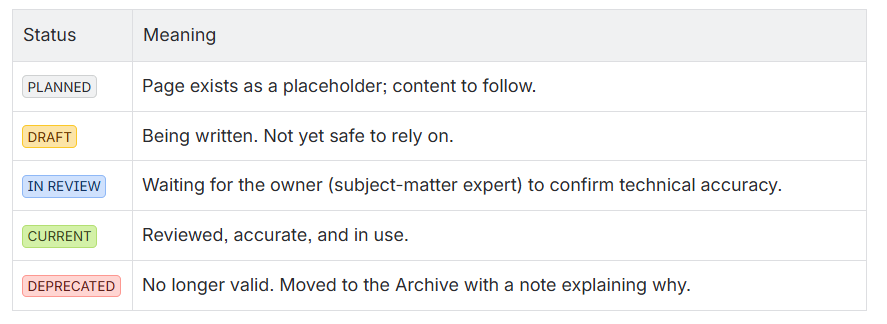
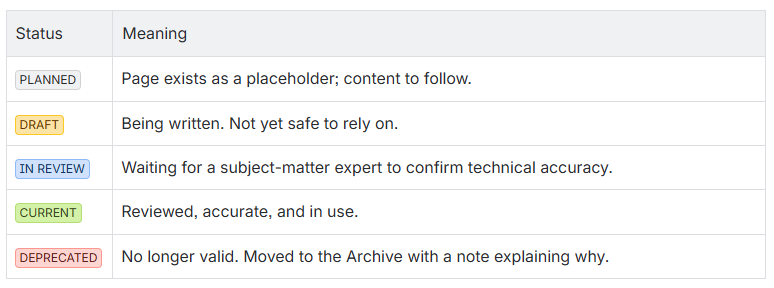
Fix the In review status wording in the status key and its screenshot

diff --git a/docs/process-governance/confluence-build.md b/docs/process-governance/confluence-build.md
@@ -70,7 +70,7 @@ The register page also carries a status key, so nobody has to guess what a badge
 that says a page has been reviewed and is accurate, which makes it the answer to the landing page's row for checking
 whether a page can be trusted.
 
-![Status key table with two columns, Status and Meaning, listing five coloured badges: Planned, a placeholder with content to follow; Draft, being written and not yet safe to rely on; In review, waiting for the owner, a subject-matter expert, to confirm technical accuracy; Current, reviewed, accurate and in use; and Deprecated, no longer valid and moved to the Archive with a note explaining why](/img/confluence-status-legend.png)
+![Status key table with two columns, Status and Meaning, listing five coloured badges: Planned, a placeholder with content to follow; Draft, being written and not yet safe to rely on; In review, waiting for a subject-matter expert to confirm technical accuracy; Current, reviewed, accurate and in use; and Deprecated, no longer valid and moved to the Archive with a note explaining why](/img/confluence-status-legend.png)
 
 ### 3. Two separate reviews, each recorded
 
